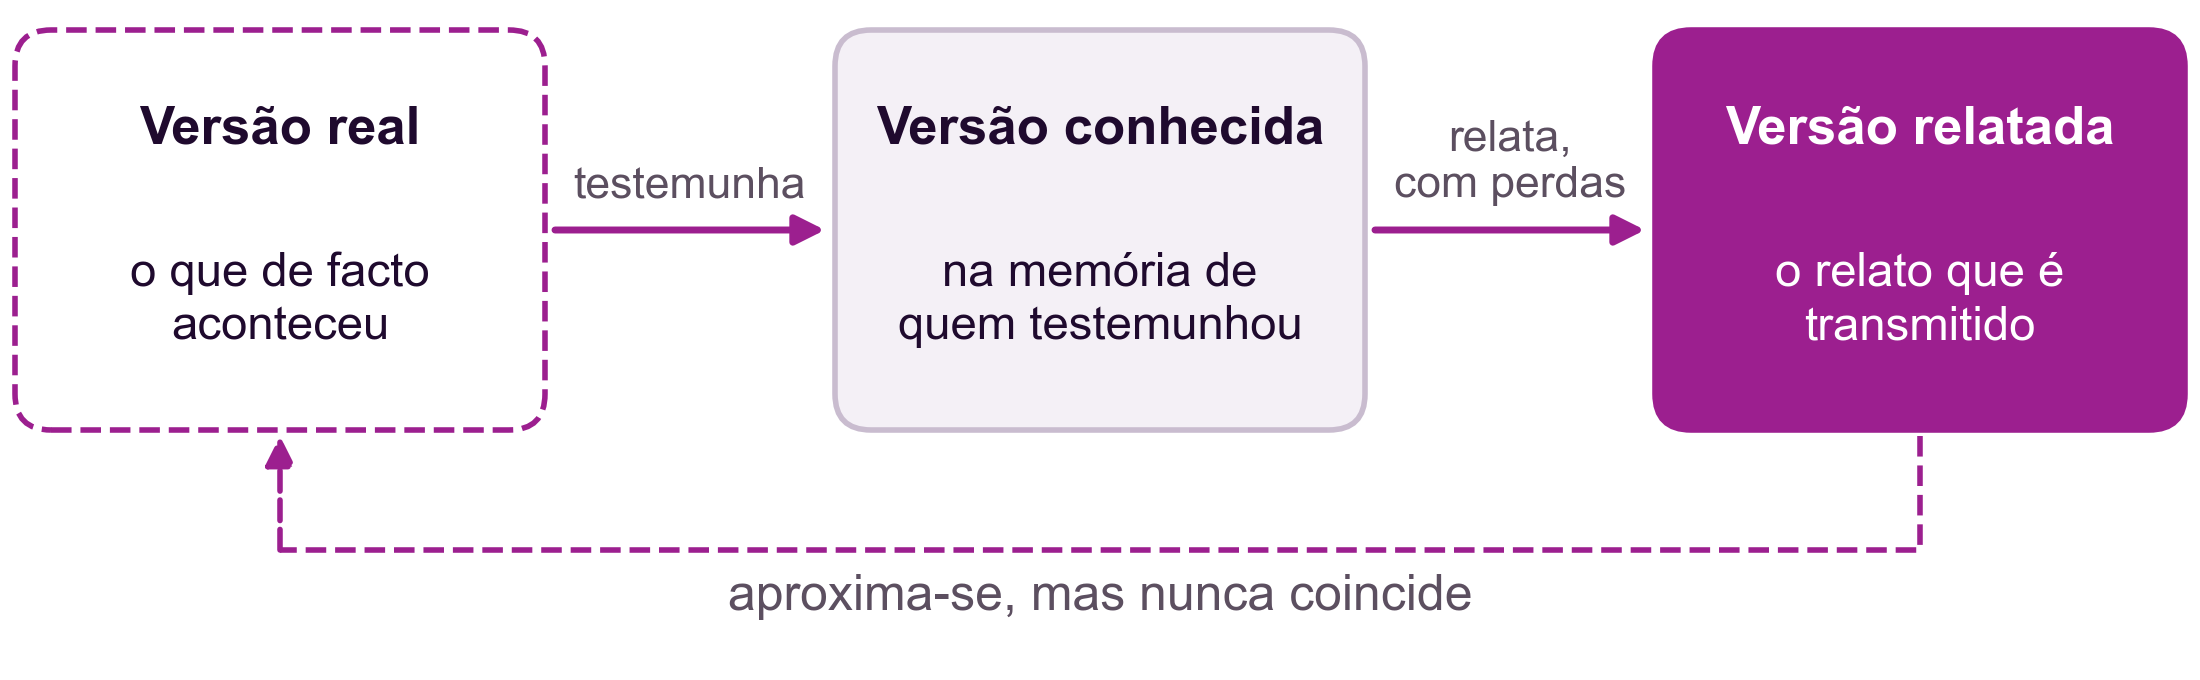
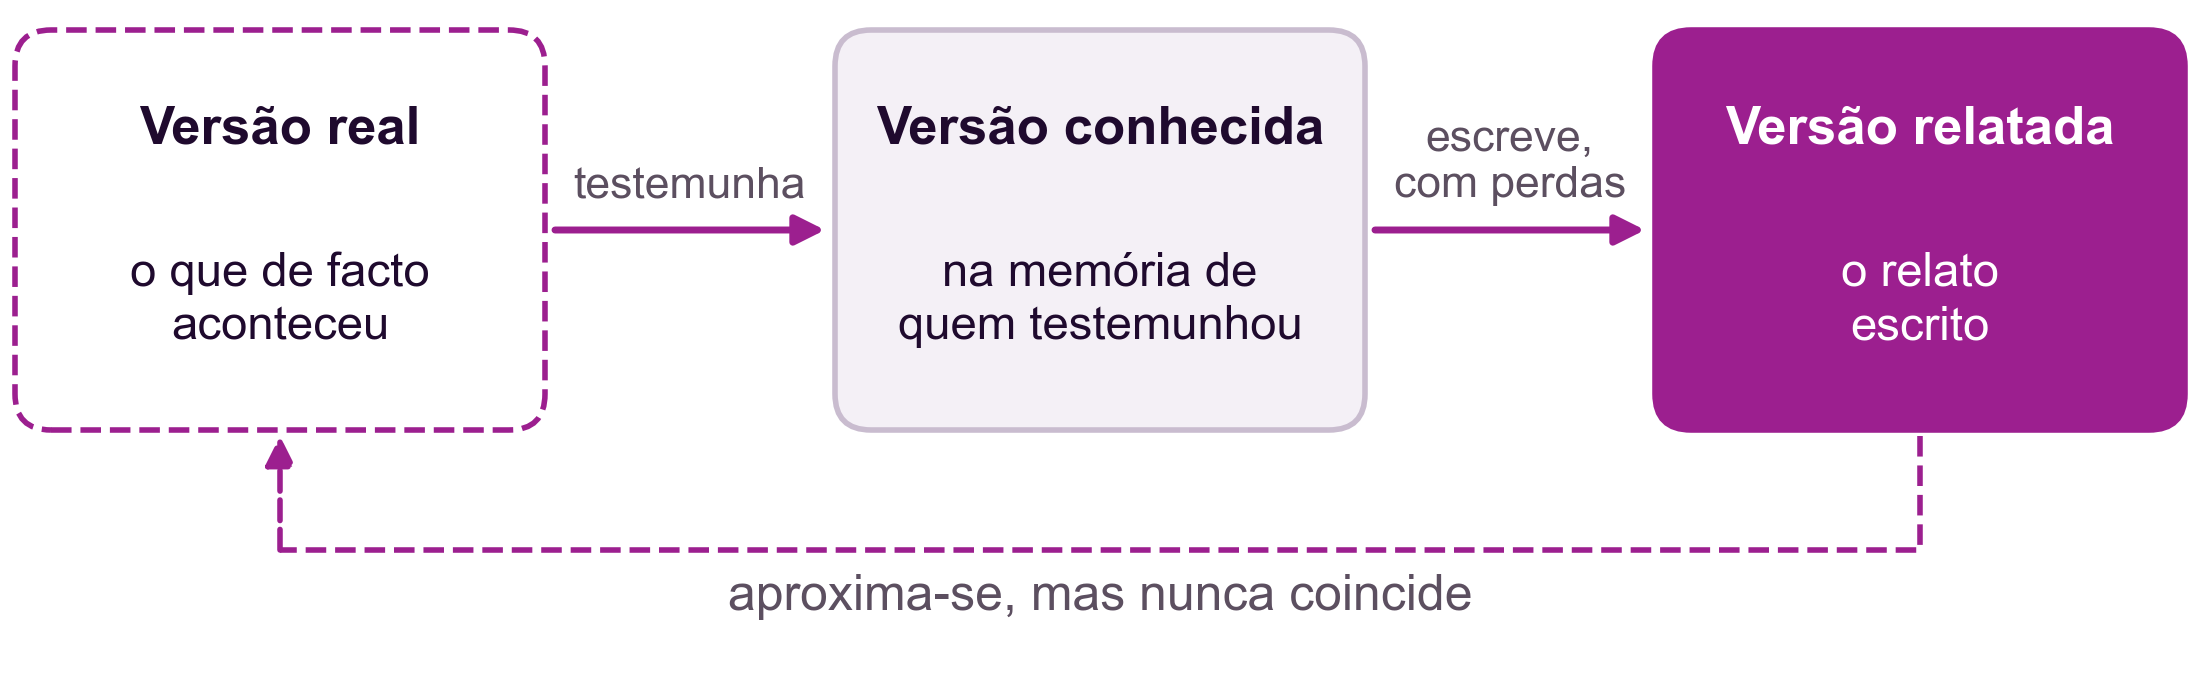
Cap09: versão relatada como resultado da externalização (texto, figura e site, PT e EN)

Changed region(s): [[0.8036, 0.3706, 0.9582, 0.4324], [0.8036, 0.4632, 0.9273, 0.525], [0.6491, 0.1853, 0.7418, 0.2471]]

diff --git a/docs/capitulos/cap09.html b/docs/capitulos/cap09.html
@@ -654,7 +654,7 @@ Tabela&nbsp;9.5: Oito relatos do mesmo episódio, adaptados de <span class="cita
 <ul>
 <li>a <strong>versão real</strong>, o que de facto aconteceu, um conceito abstrato que raramente é possível reconstituir por completo;</li>
 <li>a <strong>versão conhecida</strong>, guardada na mente de quem testemunhou o episódio;</li>
-<li>a <strong>versão relatada</strong>, o relato elaborado a partir da lembrança dos narradores.</li>
+<li>a <strong>versão relatada</strong>, o relato escrito a partir da lembrança dos narradores.</li>
 </ul>
 <p>A versão conhecida é <strong>conhecimento tácito</strong>: está na mente de quem o detém e ainda não foi formalizado. É concreto para essa pessoa, que nem sempre sabe tudo o que sabe, mas abstrato para as outras enquanto não for transmitido. Opõe-se ao <strong>conhecimento formal</strong> (explícito), que fica registado e pode ser consultado por quem não esteve presente. O que Hugo viu na rua é tácito; se o contar a um colega, continua tácito, agora em duas pessoas; quando escrever o relatório, passa a formal.</p>
 <div id="fig-09-versoes" class="quarto-float quarto-figure quarto-figure-center anchored" data-fig-pos="H">
@@ -663,7 +663,7 @@ Tabela&nbsp;9.5: Oito relatos do mesmo episódio, adaptados de <span class="cita
 <img src="../assets/images/cap09/versoes-conhecimento.png" class="img-fluid figure-img" data-fig-pos="H">
 </div>
 <figcaption class="quarto-float-caption-bottom quarto-float-caption quarto-float-fig" id="fig-09-versoes-caption-0ceaefa1-69ba-4598-a22c-09a6ac19f8ca">
-Figura&nbsp;9.2: As três versões de um episódio: a versão relatada resulta, com perdas, da versão conhecida e aproxima-se, sem nunca coincidir por completo, do que de facto aconteceu.
+Figura&nbsp;9.2: As três versões de um episódio: a versão relatada resulta da escrita, com perdas, da versão conhecida e aproxima-se, sem nunca coincidir por completo, do que de facto aconteceu.
 </figcaption>
 </figure>
 </div>
@@ -687,8 +687,8 @@ Figura&nbsp;9.3: A analogia LEGO: o que viaja é a informação, e a construçã
 <h3 data-number="9.4.4" class="anchored" data-anchor-id="sec-09-perdas"><span class="header-section-number">9.4.4</span> As perdas na transmissão</h3>
 <p><span class="citation" data-cites="Borges2011">Borges (<a href="cap01.html#ref-Borges2011" role="doc-biblioref">2011</a>)</span> chama transmissão do conhecimento a dois processos:</p>
 <ul>
-<li>a <strong>socialização</strong>, a explicação oral, que replica o conhecimento noutras mentes, mas o mantém no nível tácito e só chega a quem está presente;</li>
-<li>a <strong>externalização</strong>, ou formalização, o registo escrito, que traz o conhecimento do nível tácito ao formal e permite partilhá-lo com mais pessoas e expandi-lo.</li>
+<li>a <strong>socialização</strong>, a explicação oral, que replica o conhecimento noutras mentes, mas o mantém no nível tácito e só chega a quem está presente: o resultado é outra versão conhecida, em quem ouviu;</li>
+<li>a <strong>externalização</strong>, ou formalização, o registo escrito, que traz o conhecimento do nível tácito ao formal e permite partilhá-lo com mais pessoas e expandi-lo: o resultado é a versão relatada.</li>
 </ul>
 <p>Em ambos há perdas. Na socialização, quem conta um conto acrescenta um ponto: a cada nova transmissão, parte do conhecimento perde-se e o que passa altera-se. É o efeito que <span class="citation" data-cites="Borges2011">Borges (<a href="cap01.html#ref-Borges2011" role="doc-biblioref">2011</a>)</span> designa por “telefone sem fio”, o jogo conhecido em Portugal por “telefone estragado”. Na externalização, nem sempre se consegue escrever tudo o que se tem na memória.</p>
 <p>Por isso a versão relatada difere da conhecida: deixa de fora o que cada narrador não achou relevante, esqueceu ou percebeu mal. No episódio da rua, nenhum narrador descreve os homens que correm, o que talvez ajudasse a identificá-los nos outros relatos, e Hugo, o polícia, não refere os tiros que Mariano ouviu e Marcelo viu. Recuperar o que aconteceu exige combinar várias versões.</p>

diff --git a/docs/en/capitulos/cap09.html b/docs/en/capitulos/cap09.html
@@ -655,7 +655,7 @@ Table&nbsp;9.5: Eight accounts of the same episode, adapted from <span class="ci
 <ul>
 <li>the <strong>real version</strong>, what actually happened, an abstract concept that can rarely be fully reconstructed;</li>
 <li>the <strong>known version</strong>, held in the mind of whoever witnessed the episode;</li>
-<li>the <strong>reported version</strong>, the account drawn up from the narrators’ memory.</li>
+<li>the <strong>reported version</strong>, the written account drawn up from the narrators’ memory.</li>
 </ul>
 <p>The known version is <strong>tacit knowledge</strong>: it is in the mind of the person who holds it and has not yet been formalised. It is concrete for that person, who does not always know everything they know, but abstract for others until it is transmitted. It contrasts with <strong>formal</strong> (explicit) <strong>knowledge</strong>, which is recorded and can be consulted by those who were not present. What Hugo saw in the street is tacit; if he tells a colleague, it remains tacit, now in two people; when he writes the report, it becomes formal.</p>
 <div id="fig-09-versions-en" class="quarto-float quarto-figure quarto-figure-center anchored" data-fig-pos="H">
@@ -664,7 +664,7 @@ Table&nbsp;9.5: Eight accounts of the same episode, adapted from <span class="ci
 <img src="../assets/images/cap09/versoes-conhecimento.png" class="img-fluid figure-img" data-fig-pos="H">
 </div>
 <figcaption class="quarto-float-caption-bottom quarto-float-caption quarto-float-fig" id="fig-09-versions-en-caption-0ceaefa1-69ba-4598-a22c-09a6ac19f8ca">
-Figure&nbsp;9.2: The three versions of an episode: the reported version results, with losses, from the known version and approaches, without ever fully coinciding with, what actually happened.
+Figure&nbsp;9.2: The three versions of an episode: the reported version results from writing down, with losses, the known version and approaches, without ever fully coinciding with, what actually happened.
 </figcaption>
 </figure>
 </div>
@@ -688,8 +688,8 @@ Figure&nbsp;9.3: The LEGO analogy: what travels is information, and the construc
 <h3 data-number="9.4.4" class="anchored" data-anchor-id="sec-09-losses-en"><span class="header-section-number">9.4.4</span> Losses in transmission</h3>
 <p><span class="citation" data-cites="Borges2011">Borges (<a href="cap01.html#ref-Borges2011" role="doc-biblioref">2011</a>)</span> calls two processes transmission of knowledge:</p>
 <ul>
-<li><strong>socialisation</strong>, oral explanation, which replicates knowledge in other minds but keeps it at the tacit level and only reaches those present;</li>
-<li><strong>externalisation</strong>, or formalisation, the written record, which brings knowledge from the tacit to the formal level and allows it to be shared with more people and expanded.</li>
+<li><strong>socialisation</strong>, oral explanation, which replicates knowledge in other minds but keeps it at the tacit level and only reaches those present: the result is another known version, in whoever listened;</li>
+<li><strong>externalisation</strong>, or formalisation, the written record, which brings knowledge from the tacit to the formal level and allows it to be shared with more people and expanded: the result is the reported version.</li>
 </ul>
 <p>Both involve losses. Socialisation suffers from the “game of telephone” effect (also known as Chinese whispers): with each new transmission, part of the knowledge is lost and what is passed on changes. In externalisation, it is not always possible to write down everything held in memory.</p>
 <p>This is why the reported version differs from the known one: it leaves out what each narrator did not find relevant, forgot or perceived wrongly. In the street episode, no narrator describes the running men, which might have helped to identify them in the other accounts, and Hugo, the police officer, does not mention the shots that Mariano heard and Marcelo saw. Recovering what happened requires combining several versions.</p>

diff --git a/assets/scripts/make_cap09_versoes.py b/assets/scripts/make_cap09_versoes.py
@@ -18,15 +18,15 @@ T = {
     "pt": dict(
         caixas=[("Versão real", "o que de facto\naconteceu"),
                 ("Versão conhecida", "na memória de\nquem testemunhou"),
-                ("Versão relatada", "o relato que é\ntransmitido")],
-        setas=["testemunha", "relata,\ncom perdas"],
+                ("Versão relatada", "o relato\nescrito")],
+        setas=["testemunha", "escreve,\ncom perdas"],
         volta="aproxima-se, mas nunca coincide",
         out=RAIZ / "assets/images/cap09/versoes-conhecimento.png"),
     "en": dict(
         caixas=[("Real version", "what actually\nhappened"),
                 ("Known version", "in the memory of\nthe witness"),
-                ("Reported version", "the account that\nis passed on")],
-        setas=["witnesses", "reports,\nwith losses"],
+                ("Reported version", "the written\naccount")],
+        setas=["witnesses", "writes,\nwith losses"],
         volta="approaches, but never coincides",
         out=RAIZ / "en/assets/images/cap09/versoes-conhecimento.png"),
 }[LANG]
